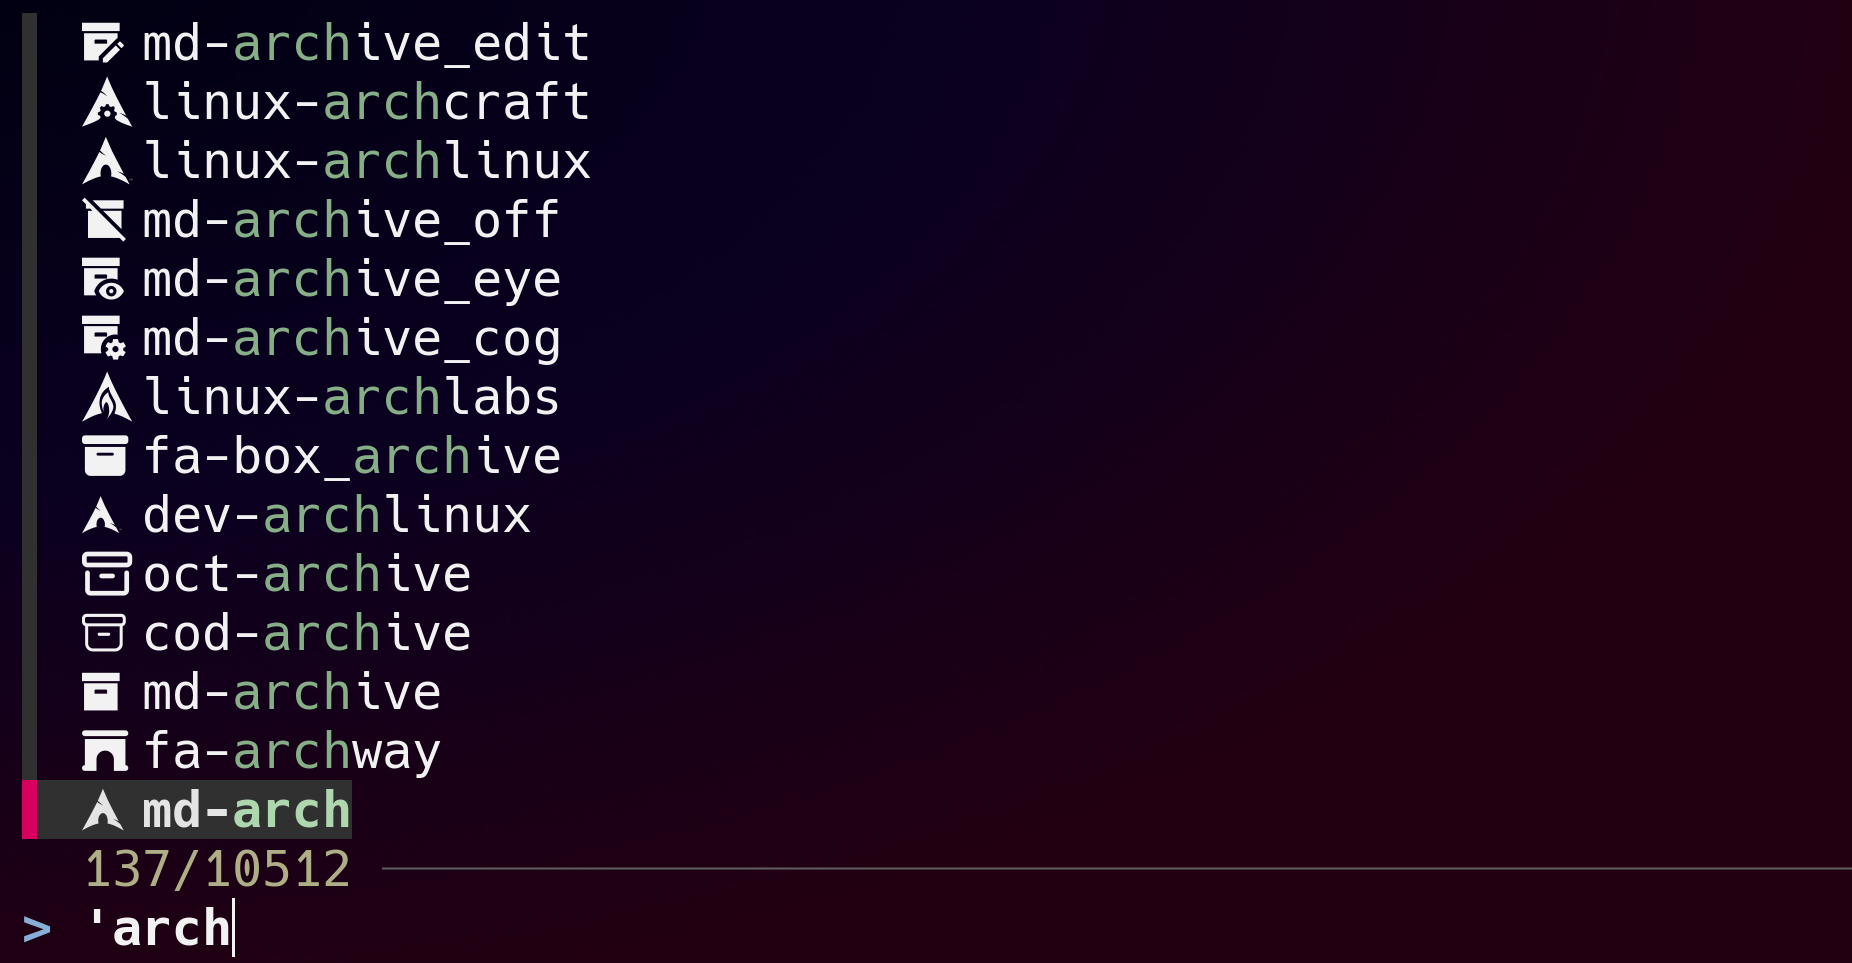
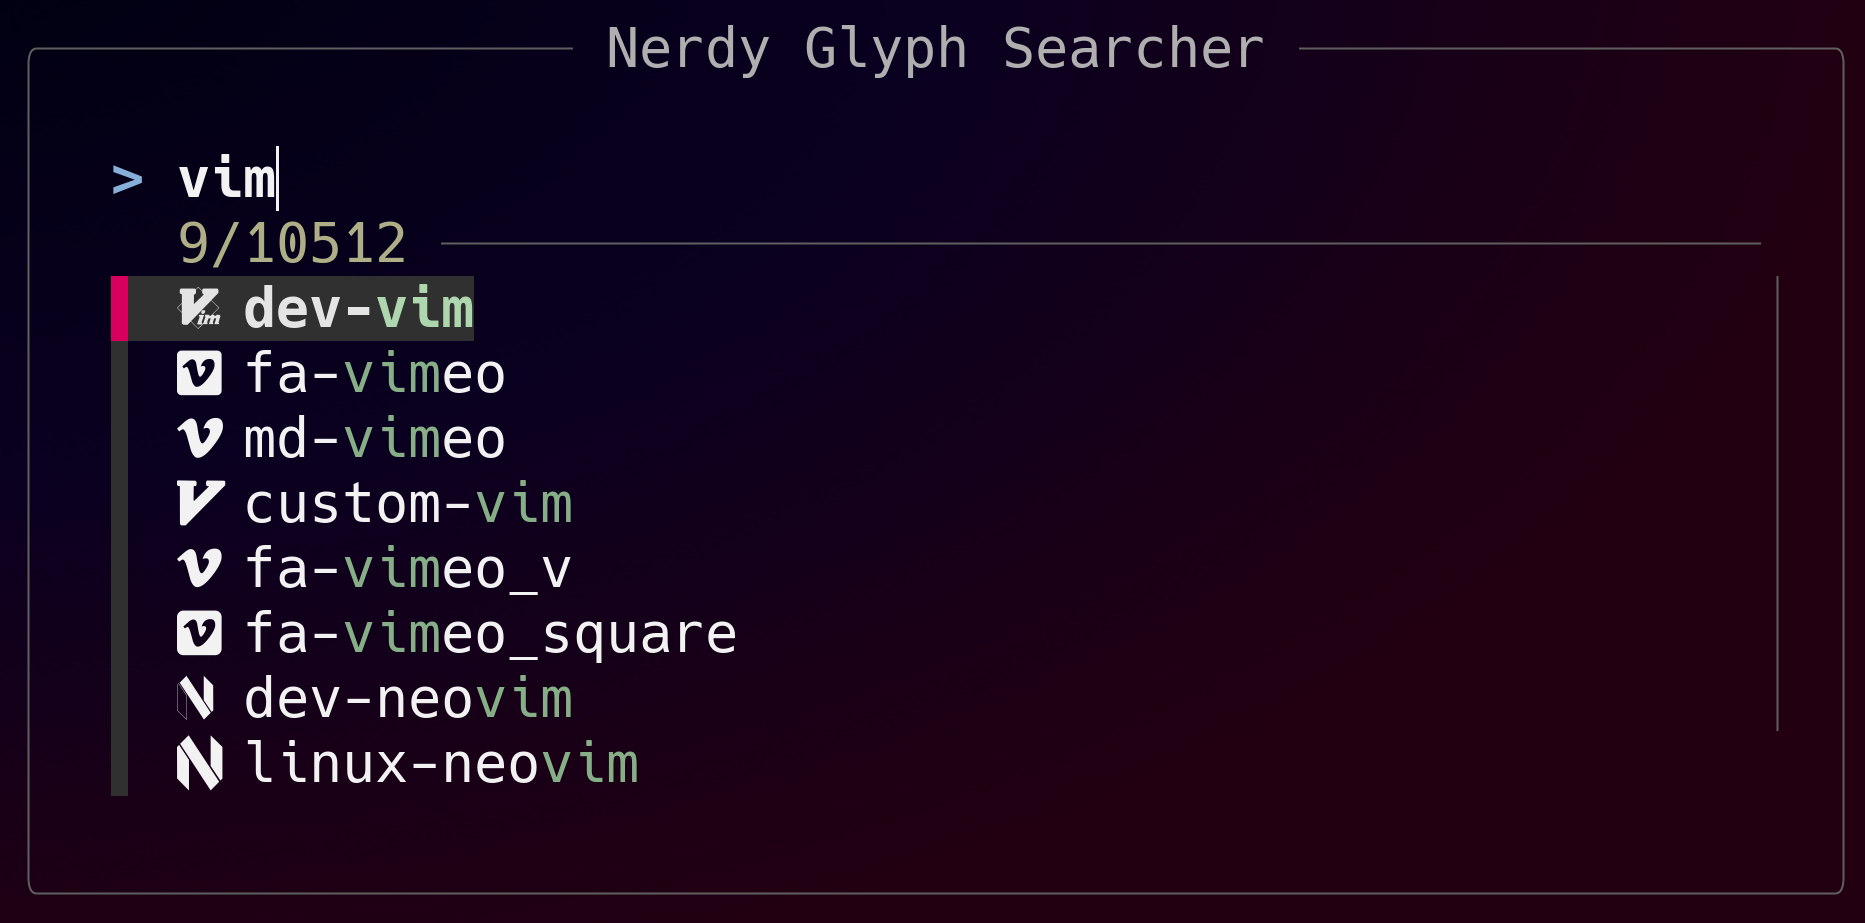
feat: fzf configuration

Changed region(s): [[0.0, 0.0, 0.9849, 1.0], [0.2154, 0.0607, 1.0, 0.9404], [0.7079, 0.0303, 0.9849, 0.0607]]

diff --git a/src/main.rs b/src/main.rs
@@ -56,6 +56,13 @@ fn run() -> Result<(), Error> {
         println!("{}", get_glyph_name_list(&font_path)?);
     } else {
         let mut child = Command::new(Dependency::Fzf.exe()?)
+            .args([
+                "--exact",
+                "--layout=reverse",
+                "--border=rounded",
+                "--padding=1",
+                "--border-label= Nerdy Glyph Searcher ",
+            ])
             .stdin(Stdio::piped())
             .stdout(Stdio::piped())
             .spawn()?;
@@ -306,10 +313,6 @@ struct Args {
 
     #[arg(short, long)]
     verbose: bool,
-
-    /// Use exact matching in fuzzy finding
-    #[arg(short, long)]
-    exact: bool,
 
     /// Send results to stdout instead of interactive mode
     #[arg(short, long)]

diff --git a/README.md b/README.md
@@ -1,7 +1,5 @@
 # Nerdy Glyph Searcher
 
-_WIP_
-
 Search through [nerd font](https://www.nerdfonts.com/) glyphs in the terminal.
 
 ![Screenshot](screenshot.png)
@@ -10,17 +8,48 @@ _Screenshot of interactive search_
 
 ## Requirements
 
-Supported Terminals:
-
-* WezTerm on Linux
-* Ghostty on Linux
-
 Fonts must be `.ttf`.
+
+### Terminal
+
+Any terminal should work as long as the font file specified matches the one
+used by the terminal.
+
+Auto-Detection Supported Terminals:
+
+* WezTerm
+* Ghostty
 
 ### Runtime Dependencies
 
 * `fzf` for interactive searching
 * `fc-match` from `fontconfig` for Ghostty
+
+## Usage
+
+The program can auto-detect the font file to use.
+
+```sh
+nerdy_glyph_searcher
+```
+
+Manually specify the font file to use.
+
+```sh
+nerdy_glyph_searcher -f /usr/share/fonts/truetype/NerdFonts/Hack/HackNerdFontMono-Regular.ttf
+```
+
+Send the output to stdout instead of interactive mode.
+
+```sh
+nerdy_glyph_searcher -o | grep "vim"
+```
+
+OR
+
+```sh
+nerdy_glyph_searcher -o | fzf --layout=default
+```
 
 ## License
 
